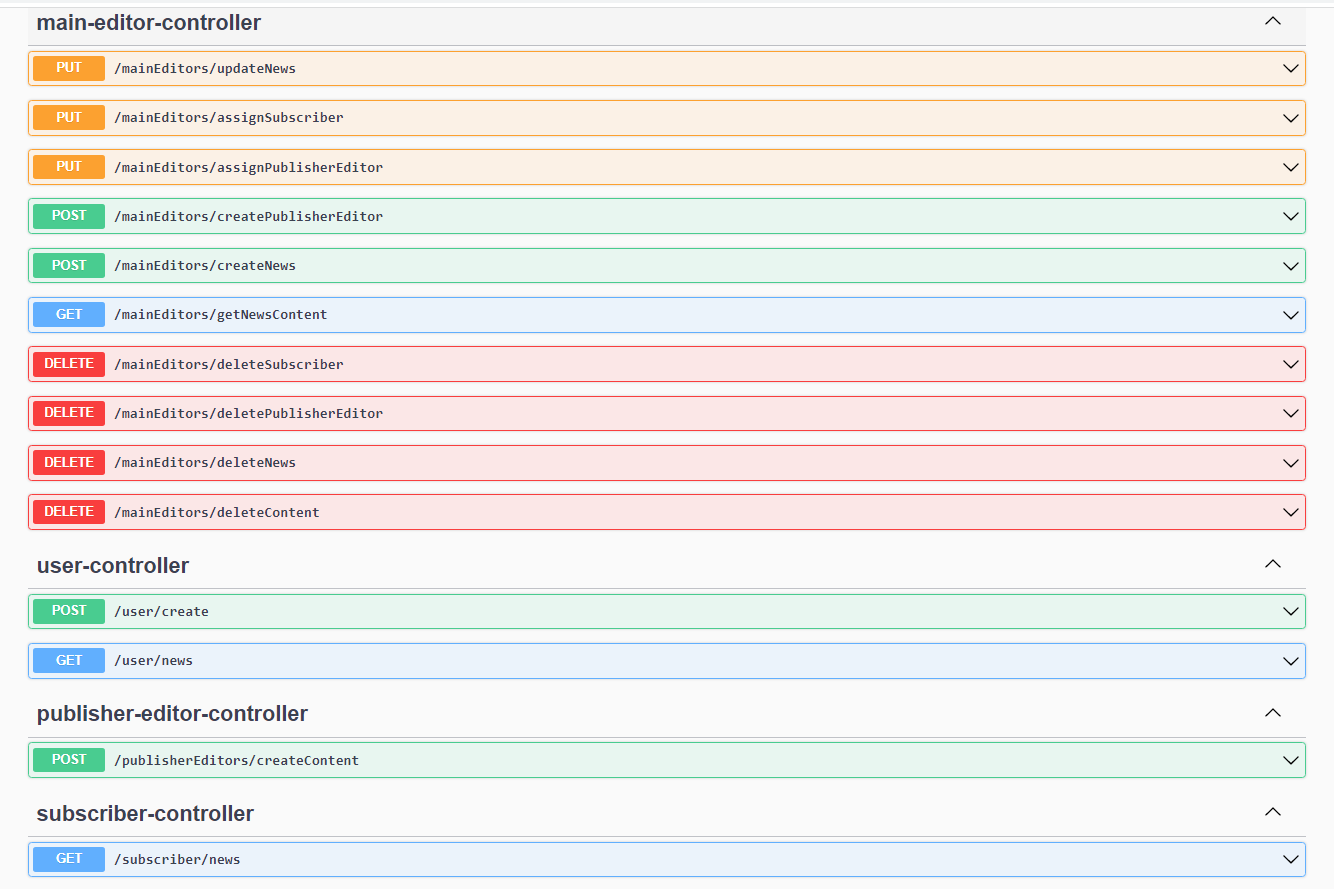
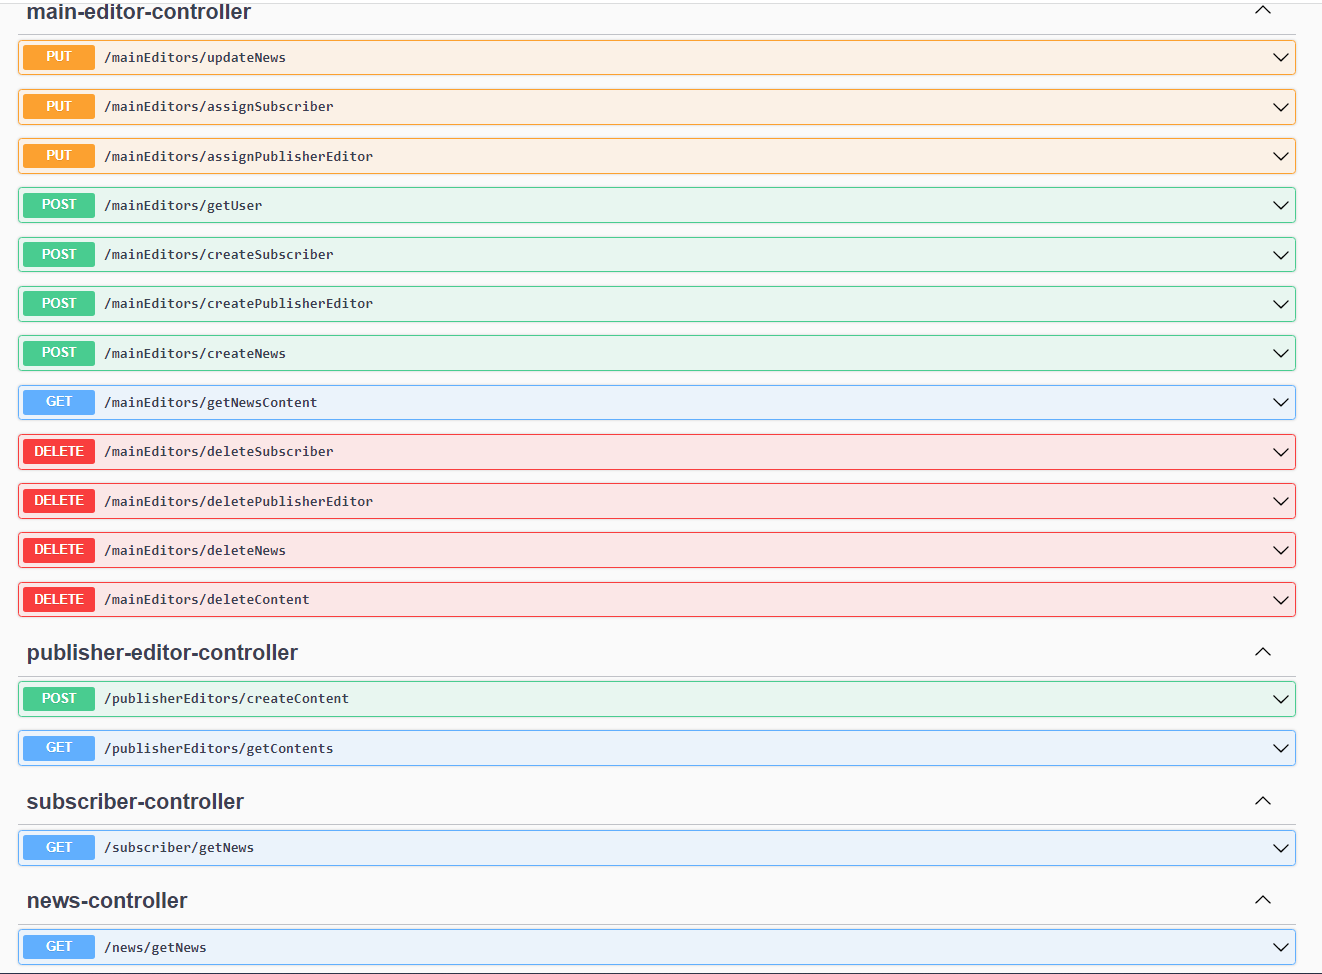
Update README.MD

Changed region(s): [[0.0, 0.0, 0.9924, 1.0]]

diff --git a/README.MD b/README.MD
@@ -2,7 +2,7 @@
 ## Info About Project
 * The news management system is a management application where the news is shown to normal users and
   subscribers, news content entries are made by the publisher editors, and the main editor makes
-  arrangements about news, contents and users. <br /> ![img_swagger.png](img%2Fimg_swagger.png)
+  arrangements about news, contents and users. <br /> ![img_swagger.PNG](img%2Fimg_swagger.PNG)
 ![db_diagram.PNG](img%2Fdb_diagram.PNG)
 
 ## Used Technologies
@@ -11,6 +11,8 @@
 * Spring Data Jpa
 * PostgreSql 14.1.1
 * IntelliJ IDEA Community Edition 2023.1.2
+* Junit 5.9.2
+* Mockito 4.8.1
 
 
 ## How Is The Project Ready To Work?
@@ -20,11 +22,11 @@
 4) Right-click on Databases and Create Database.
    <br /> ![img_db_create.png](img%2Fimg_db_create.png)
 5) Give the database name news-management-system in the General section and save.
-6) In the Intellij IDEA go to news-management-system-master>src>main>resources>application.properties and write your username and password for database connection
-7) Right-click on the NewsManagementSystemApplication under the news-management-system-master>src>main>java>com>newsmanagementsystem and select "Run 'NewsManagement...main()' "
+6) In the Intellij IDEA go to news-management-system>src>main>resources>application.properties and write your username and password for database connection.
+7) Right-click on the NewsManagementSystemApplication under the news-management-system>src>main>java>com>newsmanagementsystem and select "Run 'NewsManagement...main()' ".
 8) The application is running now. To open Swagger UI go to http://localhost:8080/swagger-ui/index.html#/ in a web browser.
 9) Database tables are created automatically while the application is running.
-10) To see the tables right-click on the news-management-system database and refresh it. Then you can see tables under Schemas
+10) To see the tables right-click on the news-management-system database and refresh it. Then you can see tables under Schemas.
 
 ## Roles
 * subscriber :Subscribers are people who are members of the system. Subscriber can;
@@ -46,19 +48,112 @@
 
 ## Application Scenario
 * The main editor will be created automatically when the application is started.
-* Create publisher editor by main editor id in 'createPublisherEditor' endpoint in main-editor-controller.
-* Create 3 user in 'create' endpoint in user-controller.
-* Assign one of the user to subscriber in 'assignSubscriber' in main-editor-controller.
-* Assign one of the user to publisher editor in 'assignPublisherEditor' endpoint in main-editor-controller.
+* Create several publisher editors by main editor id in 'createPublisherEditor' endpoint in main-editor-controller.
+* Create several subscribers by main editor id in 'createSubscriber' endpoint in main-editor-controller.
 * Create different contents by publisher editor ids in 'createContent' endpoint in publisher-editor-controller.
-* Create different news by content id and main editor id in 'createNews' endpoint in main-editor-controller. Do not use all contents to create news.
+* To see contents of the publisher editor, use 'getContents' endpoint in publisher-editor-controller.
+* Create different news by content id and main editor id in 'createNews' endpoint in main-editor-controller.
 * Update news by main editor id and news id in 'updateNews' endpoint in main-editor-controller
-* In the getNewsContent endpoint in the main-editor-controller, set false to see unused news content, or true to see used news content.
+* In the 'getNewsContent' endpoint in the main-editor-controller, set false to see unused news contents, or true to see used news contents.
   You can also set pageability here.
-* To see normal users news, use 'news' endpoint by user id in user-controller.
-* To see subscribers news, use 'news' endpoint by user id in subscriber-controller.
-* Delete subscriber by main editor id and user id in 'deleteSubscriber' in main-editor-controller.
+* To see normal users news, use 'getNews' endpoint by user id in news-controller.
+* To see subscribers news, use 'getNews' endpoint by user id in subscriber-controller.
+* To see a user's information, use 'getUser' endpoint in main-editor-controller by main editor id and user id.
+* To assign a publisher editor to subscriber, use 'assignSubscriber' endpoint in main-editor-controller. If there is content belonging to the publisher editor, no assignment is made.
+* To assign a subscriber to publisher editor, use 'assignPublisherEditor' endpoint in main-editor-controller.
+* Delete subscriber by main editor id and user id in 'deleteSubscriber' endpoint in main-editor-controller.
 * Delete news by  main editor id and news id in 'deleteNews' endpoint in main-editor-controller.
 * Delete content by main editor id and content id in 'deleteContent' endpoint in main-editor-controller. This will also delete news connected with deleted content.
 * Delete publisher editor by main editor id and publisher editor id in 'deletePublisherEditor' endpoint in main-editor-controller.
   This will also delete contents and news connected with deleted publisher editor.
+
+## Parameter and Return Types of Controllers
+### Main Editor Controller
+* getNewsContent
+  * param **_contentWithNews : boolean_**
+  * param **_pageable : Pageable_**
+  * return **_Page List : ResponseEntity_**
+    <br /><br /> It brings content that is used or not used as news according to its true or false status.
+---
+* getUser
+  * param **_mainEditorRequest : MainEditorRequest_**
+  * return **_User : ResponseEntity_**
+  <br /><br /> Returns the user's information in the database.
+---
+* createNews
+  * param **_createNewsRequest : CreateNewsRequest_**
+  * return **_HttpStatus : ResponseEntity_**
+    <br /><br /> Enables the creation of news.
+---
+* createPublisherEditor
+  * param **_createPublisherEditorRequest : CreatePublisherEditorRequest_**
+  * return **_HttpStatus : ResponseEntity_**
+    <br /><br /> Enables the creation of the publisher editor.
+---
+* createSubscriber
+  * param **_createUserRequest : CreateUserRequest_**
+  * return **_HttpStatus : ResponseEntity_**
+    <br /><br /> Enables the creation of the subscriber.
+---
+* assignPublisherEditor
+  * param **_mainEditorRequest : MainEditorRequest_**
+  * return **_HttpStatus : ResponseEntity_**
+    <br /><br /> Assigns the subscriber as publisher editor.
+---
+* assignSubscriber
+  * param **_mainEditorRequest : MainEditorRequest_**
+  * return **_HttpStatus : ResponseEntity_**
+    <br /><br /> Assigns the publisher editor as subscriber.
+---
+* updateNews
+  * param **_updateNewsRequest : UpdateNewsRequest_**
+  * return **_HttpStatus : ResponseEntity_**
+    <br /><br /> Updates an existing news.
+---
+* deleteNews
+  * param **_mainEditorRequest : MainEditorRequest_**
+  * return **_HttpStatus : ResponseEntity_**
+    <br /><br /> Deletes an existing news.
+---
+* deleteSubscriber
+  * param **_mainEditorRequest : MainEditorRequest_**
+  * return **_HttpStatus : ResponseEntity_**
+    <br /><br /> Deletes an existing subscriber.
+---
+* deletePublisherEditor
+  * param **_mainEditorRequest : MainEditorRequest_**
+  * return **_HttpStatus : ResponseEntity_**
+    <br /><br /> Deletes an existing publisher editor with its contents.
+---
+* deleteContent
+  * param **_mainEditorRequest : MainEditorRequest_**
+  * return **_HttpStatus : ResponseEntity_**
+    <br /><br /> Deletes a content along with the news that is linked to the content.
+<br/>
+<br/>
+### News Controller
+* getNews
+  * param **_pageable : Pageable_**
+  * return **_DisplayNewsResponse : Page_**
+    <br /><br /> Returns news for normal users.
+<br/>
+<br/>
+### Publisher Editor Controller
+* getContents
+  * param **_pageable : Pageable_**
+  * param **_publisherEditorId : Long_**
+  * return **_DisplayContentsResponse : Page_**
+    <br /><br /> Returns the contents of PublisherEditor.
+---
+* createContent
+  * param **_createContentRequest : CreateContentRequest_**
+  * return **_HttpStatus : ResponseEntity_**
+    <br /><br /> Enables the creation of content.
+<br/>
+<br/>
+### Subscriber Controller
+* getNews
+  * param **_userId : Long_**
+  * param **_pageable : Pageable_**
+  * return **_DisplayNewsResponse : Page_**
+    <br /><br /> Returns news for subscribers.
